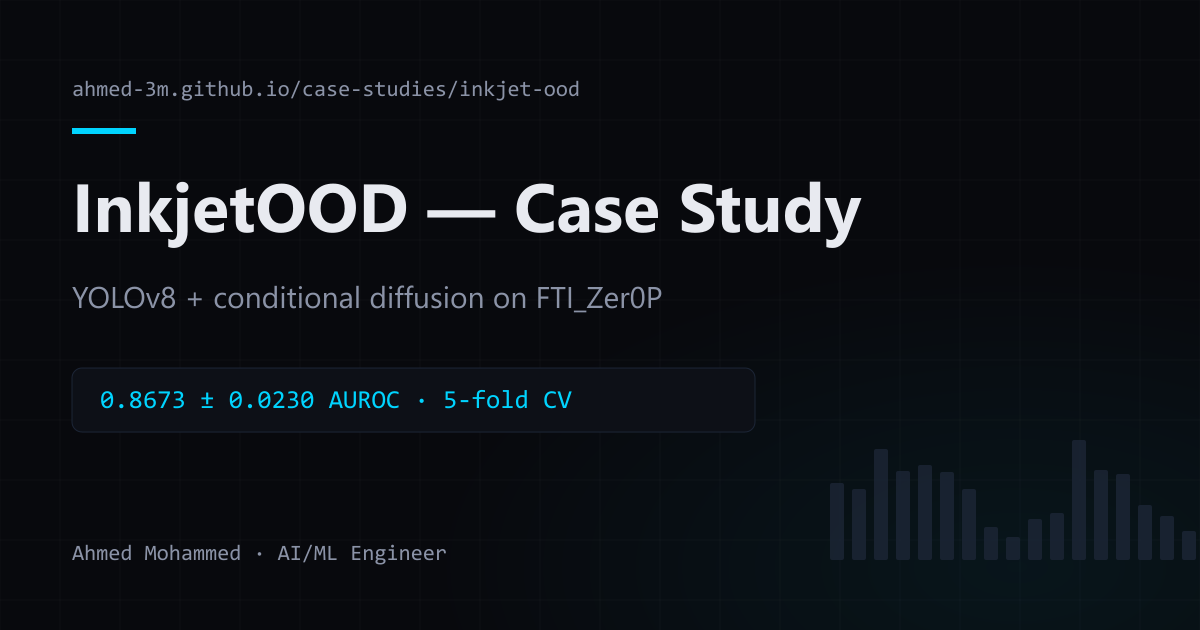
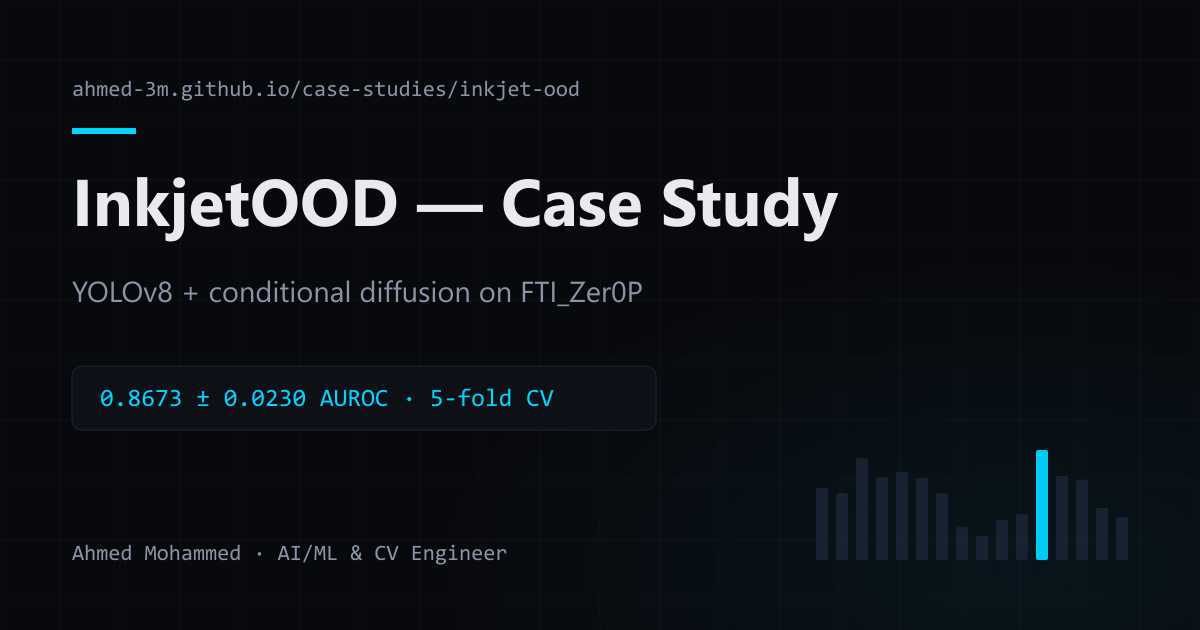
chore(og,docs): rebuild 1200x630 share cards and add RFC 005 implementation report

diff --git a/specs/005-portfolio-credibility-and-mobile/IMPLEMENTATION-REPORT.md b/specs/005-portfolio-credibility-and-mobile/IMPLEMENTATION-REPORT.md
@@ -1,0 +1,114 @@
+# RFC 005 Implementation Report — Portfolio Credibility, Accuracy & Mobile Usability
+
+- **RFC**: [`specs/005-portfolio-credibility-and-mobile/rfc.md`](./rfc.md)
+- **Branch**: `rfc/005-portfolio-credibility-and-mobile`
+- **Pull Request**: https://github.com/ahmed-3m/ahmed-3m.github.io/pull/205
+
+## 1. Completed Scope by Priority
+
+### Priority 1 — Faultrix Removal Across Active & Machine-Readable Surfaces
+- **Retired routes & assets**:
+  - Removed `src/app/case-studies/faultrix/page.tsx`.
+  - Removed `public/og-faultrix.png` and `public/og-5-month-llm-adventure.png`.
+  - Removed `'faultrix'` from `CaseStudy['slug']` and `caseStudies` in `src/lib/case-studies.ts`.
+  - Removed `'5-month-llm-adventure'` from `src/lib/blog-posts-meta.ts` and `src/lib/blog-posts.ts`.
+- **UI, Metadata, `<noscript>`, JSON-LD, Feeds, Sitemaps, and `llms*.txt`**:
+  - Updated `src/app/layout.tsx`, `src/components/About.tsx`, `src/components/TrustStrip.tsx`, `src/components/Evidence.tsx`, `src/components/Footer.tsx`, `src/components/Hero.tsx`, `src/components/Projects.tsx`, `src/components/JsonLd.tsx`, `public/llms.txt`, `public/llms-full.txt`, and `tools/generate-og-images.mjs` to remove Faultrix references, `faultrix.com`, and construction-SaaS positioning.
+  - Static export regenerated `/sitemap.xml`, `/sitemap-pages.xml` (10 URLs), and `/feed.xml` (3 blog posts) without retired Faultrix URLs.
+- **Chatbot Prompts, Local Fallbacks & System Prompt**:
+  - Removed `faultrix_*` and `product_story` prompt IDs, entries, local fallback replies, follow-up rules, and `SYSTEM_PROMPT` lines in `src/components/ChatBotPanel.tsx`.
+- **Preserved history**:
+  - Retained historical `specs/001-*`, `specs/002-*`, and git history untouched.
+
+### Priority 2 — PROFACTOR Remote Clarification, Statistics Terminology, Links & `98.4%` Reconciliation
+- **PROFACTOR remote/home-office clarification**:
+  - Extended `ExperienceItem['company']` in `src/components/Experience.tsx` to support localized strings and added explicit remote/home-office wording across all 5 languages (`en`: `(Remote / Home Office)`, `de`: `(Remote / Homeoffice)`, `fr`: `(Télétravail / À distance)`, `es`: `(Remoto / Teletrabajo)`, `ar`: `(عن بُعد / العمل من المنزل)`), mirrored in `src/components/ChatBotPanel.tsx`, `public/llms.txt`, and `public/llms-full.txt`.
+- **Standard deviation vs. variance terminology**:
+  - Corrected `"variance"` / `"Varianz"` / `"varianza"` / `"تباين"` to standard deviation / fold spread (`std dev`, `Std.-Abw.`, `ecart-type`, `desv. est.`, `انحراف معياري`) across all 5 locales in `src/components/Research.tsx`, `src/lib/case-studies.ts`, `src/lib/blog-posts.ts`, `src/app/case-studies/diffusion-ood/page.tsx`, `src/components/JsonLd.tsx`, and `src/components/ChatBotPanel.tsx`.
+- **Dead link removal**:
+  - Removed the 404 link `https://github.com/ahmed-3m/zer0p_notebooks` from `src/components/Research.tsx`.
+- **`98.4%` metric qualification**:
+  - Reconciled all occurrences in `src/lib/blog-posts.ts`, `src/lib/blog-posts-meta.ts`, `src/components/JsonLd.tsx`, `src/components/ChatBotPanel.tsx`, `public/llms.txt`, and `public/llms-full.txt` so `98.4%` is explicitly scoped as an internal, threshold-dependent operational deployment metric and never equated with the public `0.8673 ± 0.0230` 5-fold CV AUROC on `FTI_Zer0P`.
+
+### Priority 3 — Mobile 375px Layout, Contact Visibility, Contrast, RTL & Keyboard Accessibility
+- **375px overflow & wrapping (`src/app/globals.css`)**:
+  - Added `min-width: 0` on `.cd-education-card` and `.cd-edu-degree`; allowed `.cd-edu-header` (`flex-wrap: wrap`) and `.cd-edu-date` (`max-width: 100%; overflow-wrap: anywhere`) to wrap cleanly instead of overflowing at `375px`.
+  - Removed `overflow-x: hidden` from `body` so horizontal layout integrity is enforced genuinely rather than masked.
+  - Wrapped `.cd-hero-title span` on viewports `<= 768px`, added `min-width: 0` and logical alignment to `.cd-proj-actions`, and added `overflow-wrap: anywhere` on `.cd-rf-chart-caption`, `.cd-lightbox-caption`, and `.cd-contact-email`.
+- **Contact visibility without JavaScript/scroll**:
+  - Removed `.reveal` classes from Contact heading, subtitle, links, and email in `src/components/Contact.tsx`.
+  - Added `<style>.reveal { opacity: 1 !important; transform: none !important; animation: none !important; }</style>` and direct `/cv.pdf` fallback inside `<noscript>` in `src/app/layout.tsx`.
+  - Confirmed `prefers-reduced-motion: reduce` keeps all `.reveal` elements visible (`opacity: 1`).
+- **Dark & Light theme contrast**:
+  - Updated dark tokens (`--cd-fg2: #a8b2c4`, `--cd-fg3: #94a3b8`, `--cd-danger: #f87171`) and light tokens (`--cd-accent: #006680`, `--cd-accent-h: #004f63`, `--cd-fg2: #475365`, `--cd-fg3: #645546`, `--cd-success: #006b45`, `--cd-warn: #8c4d00`, `--cd-danger: #b91c1c`) in `src/app/globals.css`.
+  - Set `#fff8ee` foreground text on `.cd-nav-cta`, `.cd-btn-primary`, `.cd-rfc-step`, and `.cd-bt-new` in `[data-theme="light"]`, removed contrast-degrading `opacity` styles on `.cd-wc-tag`, `NewsPageClient.tsx`, and `Research.tsx` footer links, and replaced hardcoded colors/undefined vars in `src/components/OodDemo.tsx` with theme tokens (`--cd-success`, `--cd-warn`, `--cd-danger`, `--cd-b0`, `--cd-surf`, `--cd-fg1`).
+- **Arabic RTL & keyboard focus**:
+  - Replaced directional CSS rules (`margin-left`, `padding-left`, `border-left`, `border-right`, `text-align: left/right`, `right`) with CSS logical properties (`margin-inline-*`, `padding-inline-*`, `border-inline-*`, `text-align: start/end`, `inset-inline-end`).
+  - Added `direction: ltr; unicode-bidi: isolate` to `.cd-nav-logo` and `.cd-footer-brand` so `Ahmed.` preserves trailing dot placement in Arabic RTL.
+  - Restored 2px `:focus-visible` outlines on `.cd-evidence-card` and `.cd-rfc-visual-button`, and added window-level `Escape` key closing with trigger focus restoration in `src/components/Research.tsx`.
+
+### Priority 4 — Research Previews & Verified Score Convention
+- **Verified thesis score convention**:
+  - Confirmed in `public/Mohammed_Ahmed_Thesis_Diffusion_OOD_Detection.pdf` (Eq. 3.3, pp. 44–45, 57–59) and `src/lib/ood-explorer-data.ts` that `s_OOD(x) = ê₀(x) - ê₁(x)` with `c=0` (`normal`/`airplane`) and `c=1` (`other`/`rest`). ID samples yield lower `ê₀` than `ê₁` (negative score); OOD samples yield higher `ê₀` than `ê₁` (`s_OOD(x) >= τ` predicts OOD, `τ = 0.000612` at 95% TPR on CIFAR-10 seed-42).
+- **Accurate Step 3 graphic & lightweight previews**:
+  - Generated `public/research/separation-gap-score.png` (`1672×941`, `67,830` bytes) replacing the inaccurate direction in the prior Step 3 asset (`separation-gap-clean.png` retained untouched in `public/research/`).
+  - Generated `800×450` WebP inline previews (`separation-denoise-preview.webp` `27,286` B, `separation-apart-preview.webp` `15,368` B, `separation-gap-preview.webp` `28,452` B; `71,106` bytes combined vs. `4.22 MB` original inline PNGs).
+  - Updated `src/components/Research.tsx` with `loading="lazy"`, `decoding="async"`, explicit intrinsic `width`/`height`, inline `previewSrc` tiles, full-resolution lightbox `src` loaded only on click, and updated 5-locale copy for `plainIdea`, `step1Text`, `step2Text`, `step3`, `step3Text`, and `sepLoss`.
+
+### Priority 5 — Recruiter Positioning & `1200×630` Share Cards
+- **Recruiter positioning**:
+  - Updated `Hero.tsx`, `TrustStrip.tsx`, `Projects.tsx`, `About.tsx`, `layout.tsx`, and `JsonLd.tsx` to foreground Computer Vision, Industrial ML, Diffusion OOD Research, and M.Sc. thesis graded 1, while retaining Sihem and `mergeproof` as supporting engineering proof and keeping full scope qualifiers (`99.03% ± 0.07%` 3-seed mean, `98.98%` seed-42, `0.8673 ± 0.0230` 5-fold CV, `92.52% ± 11.07%` baseline).
+- **Share card rebuild (`tools/generate-og-images.mjs`)**:
+  - Fixed off-canvas right `signalBars` coordinates and added dynamic title scaling/pill clamping so all elements render cleanly within `1200×630`.
+  - Generated `1200×630` PNG share cards for all 7 active metadata routes:
+    - `public/og-image.png` (`60,227` B)
+    - `public/og-diffusion-ood.png` (`64,503` B)
+    - `public/og-inkjet-ood.png` (`62,936` B)
+    - `public/og-sihem.png` (`58,394` B)
+    - `public/og-news.png` (`58,788` B)
+    - `public/og-diffusion-models-anomaly-detection.png` (`64,207` B)
+    - `public/og-computer-vision-yolo-mastery.png` (`62,792` B)
+
+## 2. Verification & Validation Results
+
+### Repository & Build Gates
+- `npm run build` (`prebuild` + Next.js static export + `postbuild`): **PASSED** (15 static pages, `out/sitemap-pages.xml` with 10 URLs).
+- `npm run typecheck` (`tsc --noEmit`): **PASSED** (0 errors).
+- `npm run lint` (`eslint src`): **PASSED** (0 errors; 9 pre-existing `@next/next/no-img-element` warnings in `About.tsx` and `Research.tsx`).
+- `node .github/news/news-selftest.mjs`: **PASSED** (200 news items parsed, all self-tests passed).
+- `node worker/chat-proxy.selftest.mjs`: **PASSED** (all worker proxy self-tests passed).
+- Static export verification (`out/`): **0 matches** for `faultrix`, `zer0p_notebooks`, or `5-month-llm-adventure` across `.html`, `.xml`, `.txt`, `.json`, and `.js`; `out/case-studies/faultrix` and `out/blog/5-month-llm-adventure` absent.
+
+### Headless Chrome CDP Matrix (`out/` over `127.0.0.1:4174`)
+- Viewports & states checked: `1440-en-dark`, `1440-ar-light`, `375-en-dark`, `375-en-light`, `375-ar-dark`, `375-ar-light`:
+  - `overflowX: false` (`scrollWidth === clientWidth`) and `overflowCount: 0` across all 6 configurations.
+  - Mobile menu button visible without clipping (`375-en-*`: `left: 311, right: 355, width: 44`; `375-ar-*`: `left: 20, right: 64, width: 44`).
+- Lazy image & lightbox behavior:
+  - Initial load requested only `/headshot.jpg` and `/icon.svg`.
+  - Scrolling to `#research` requested only the 3 `.webp` previews (`71,106` B total) and CIFAR charts; **0** full-resolution formula PNGs loaded prior to interaction.
+  - Clicking Step 3 opened `.cd-lightbox-inner` and loaded `/research/separation-gap-score.png` (`1672×941`, `67,830` B); pressing `Escape` closed the lightbox and returned focus to `.cd-rfc-visual-button`.
+- Reduced motion (`prefers-reduced-motion: reduce`): `hiddenCount: 0` across all 35 `.reveal` elements.
+- No-JS (`setScriptExecutionDisabled(true)`): Contact section and all 8 Contact links rendered with `opacity: 1` (`hiddenLinkCount: 0`) and `<noscript>` `.reveal` fallback stylesheet present.
+- Console / runtime errors: **0**.
+- Visual inspection of screenshots verified crisp dark/light contrast, desktop & 375px hero wrapping, Arabic RTL timeline alignment & `Ahmed.` brand isolation, and the Step 3 lightbox diagram.
+
+### Mobile Lighthouse Comparison (Comparable Runs on `http://127.0.0.1:4173/`)
+
+| Metric / Audit | Before (Baseline) | After RFC 005 |
+| --- | --- | --- |
+| Performance | 67 | 99 |
+| Accessibility | 93 | 100 |
+| Best Practices | 96 | 100 |
+| SEO | 100 | 100 |
+| FCP | 1.4 s | 1.5 s |
+| LCP | 10.2 s | 1.5 s |
+| CLS | 0 | 0 |
+| TBT | 0 ms | 20 ms |
+| Total Byte Weight | 5,526,168 B | 1,721,638 B |
+| `color-contrast` violations | 139 items (score 0) | 0 items (score 1) |
+
+## 3. Unresolved Items & Owner Decisions Needed
+1. **Work authorization phrasing**: The portfolio retains eligibility wording (`Rot-Weiß-Rot Karte` eligible as an Austrian STEM graduate) and does not assert approved permit status without owner confirmation.
+2. **Legacy raw Step 3 image (`public/research/separation-gap-clean.png`)**: Replaced in active UI/lightbox with `public/research/separation-gap-score.png` rather than deleting the untouched source PNG in `public/research/`; delete if no longer needed after review.
+3. **Production deployment & external link previews**: All checks ran against local static `out/` output; GitHub Pages deployment and social-platform OG cache refreshes will occur only after owner merge of PR #205.
+4. **Pre-existing build output `src/lib/news-homepage.json`**: Left uncommitted/unmodified relative to the branch base so PR #205 remains isolated from daily automated news updates (`npm run build` refreshes it locally during `prebuild`).
